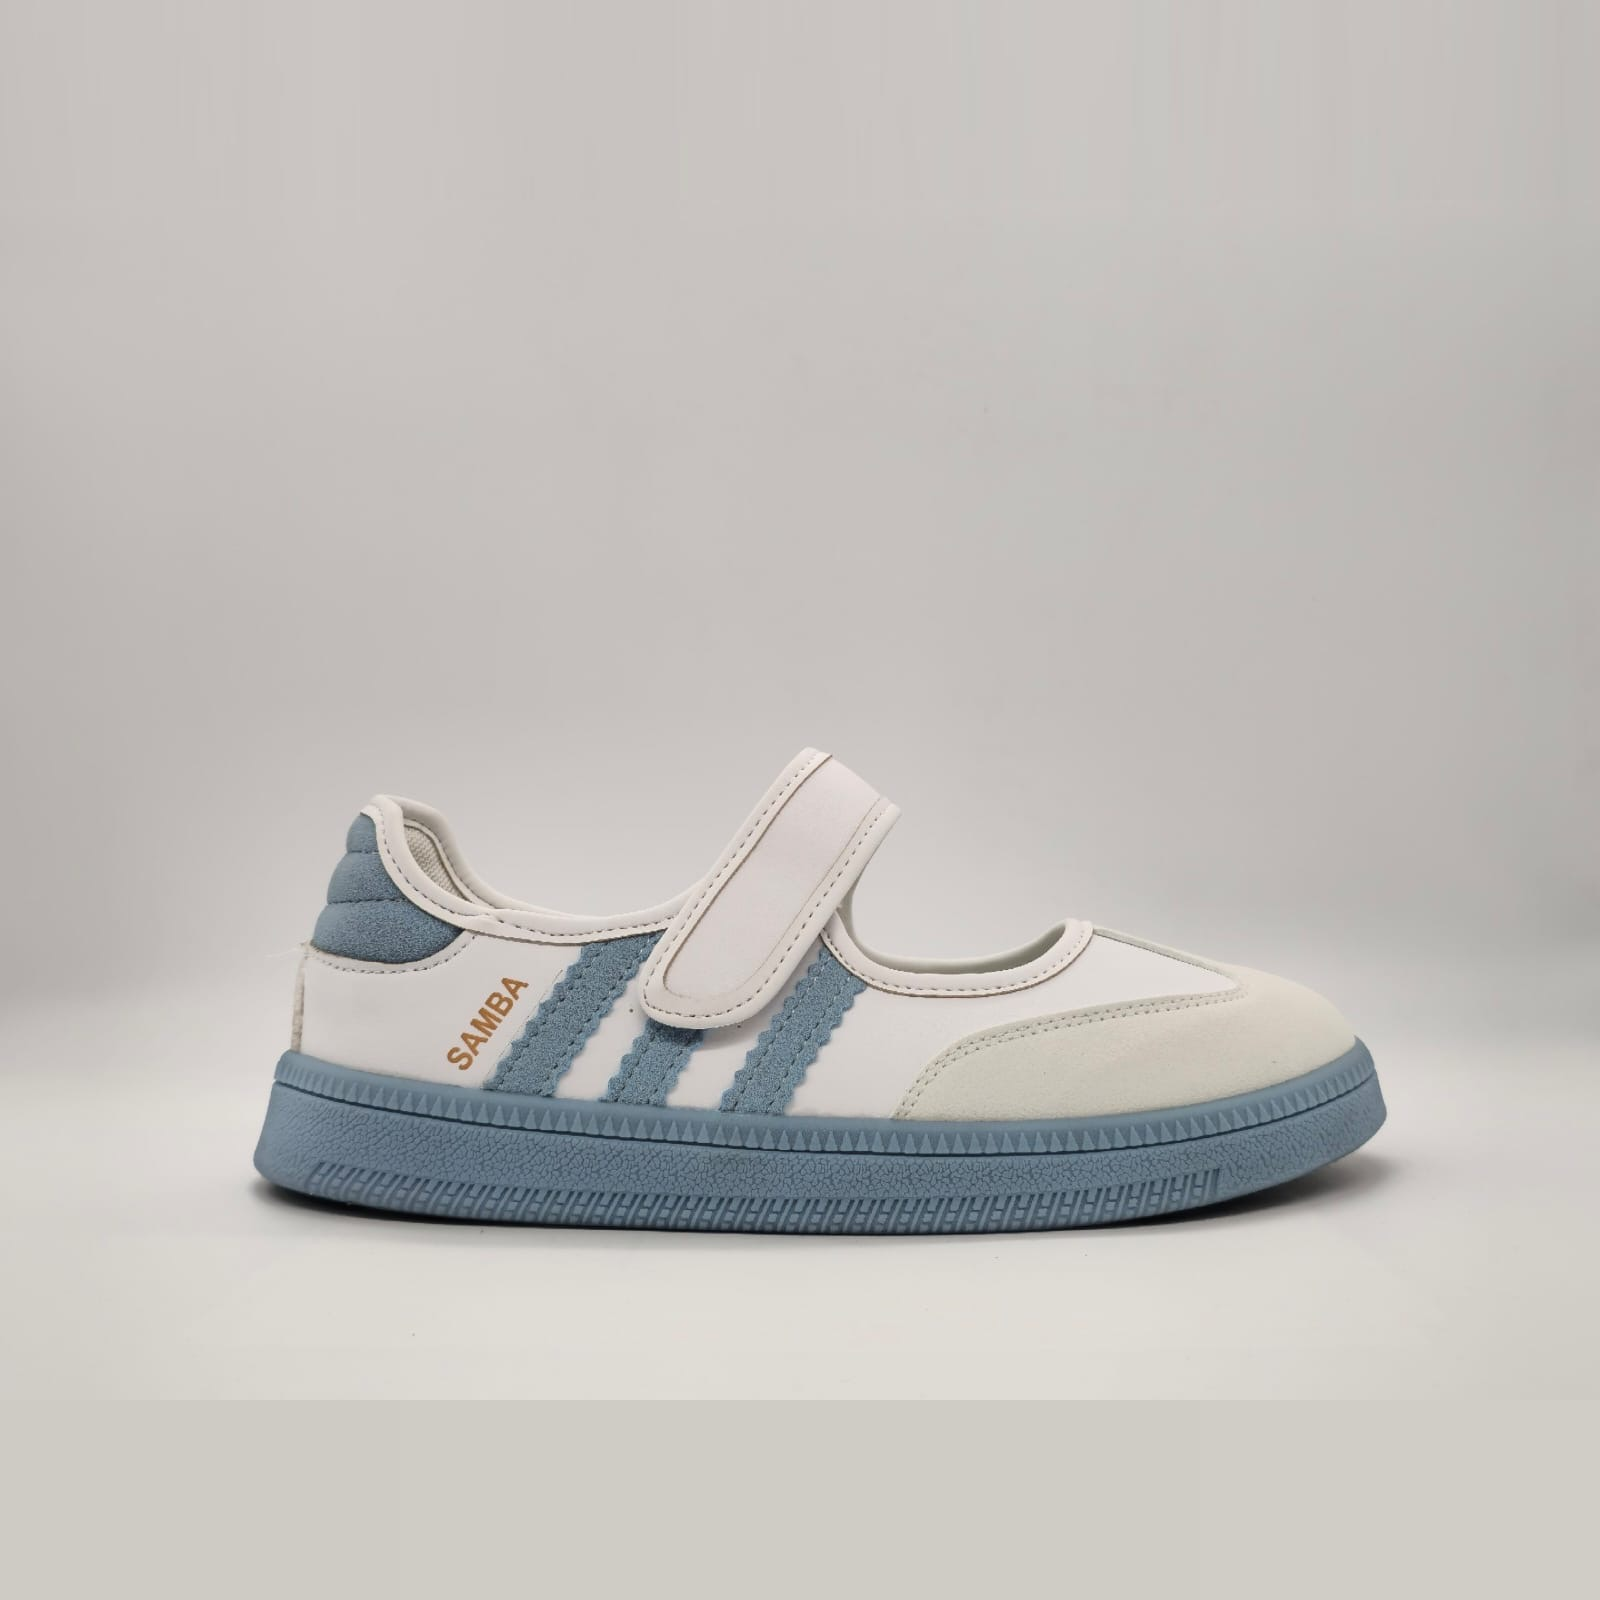
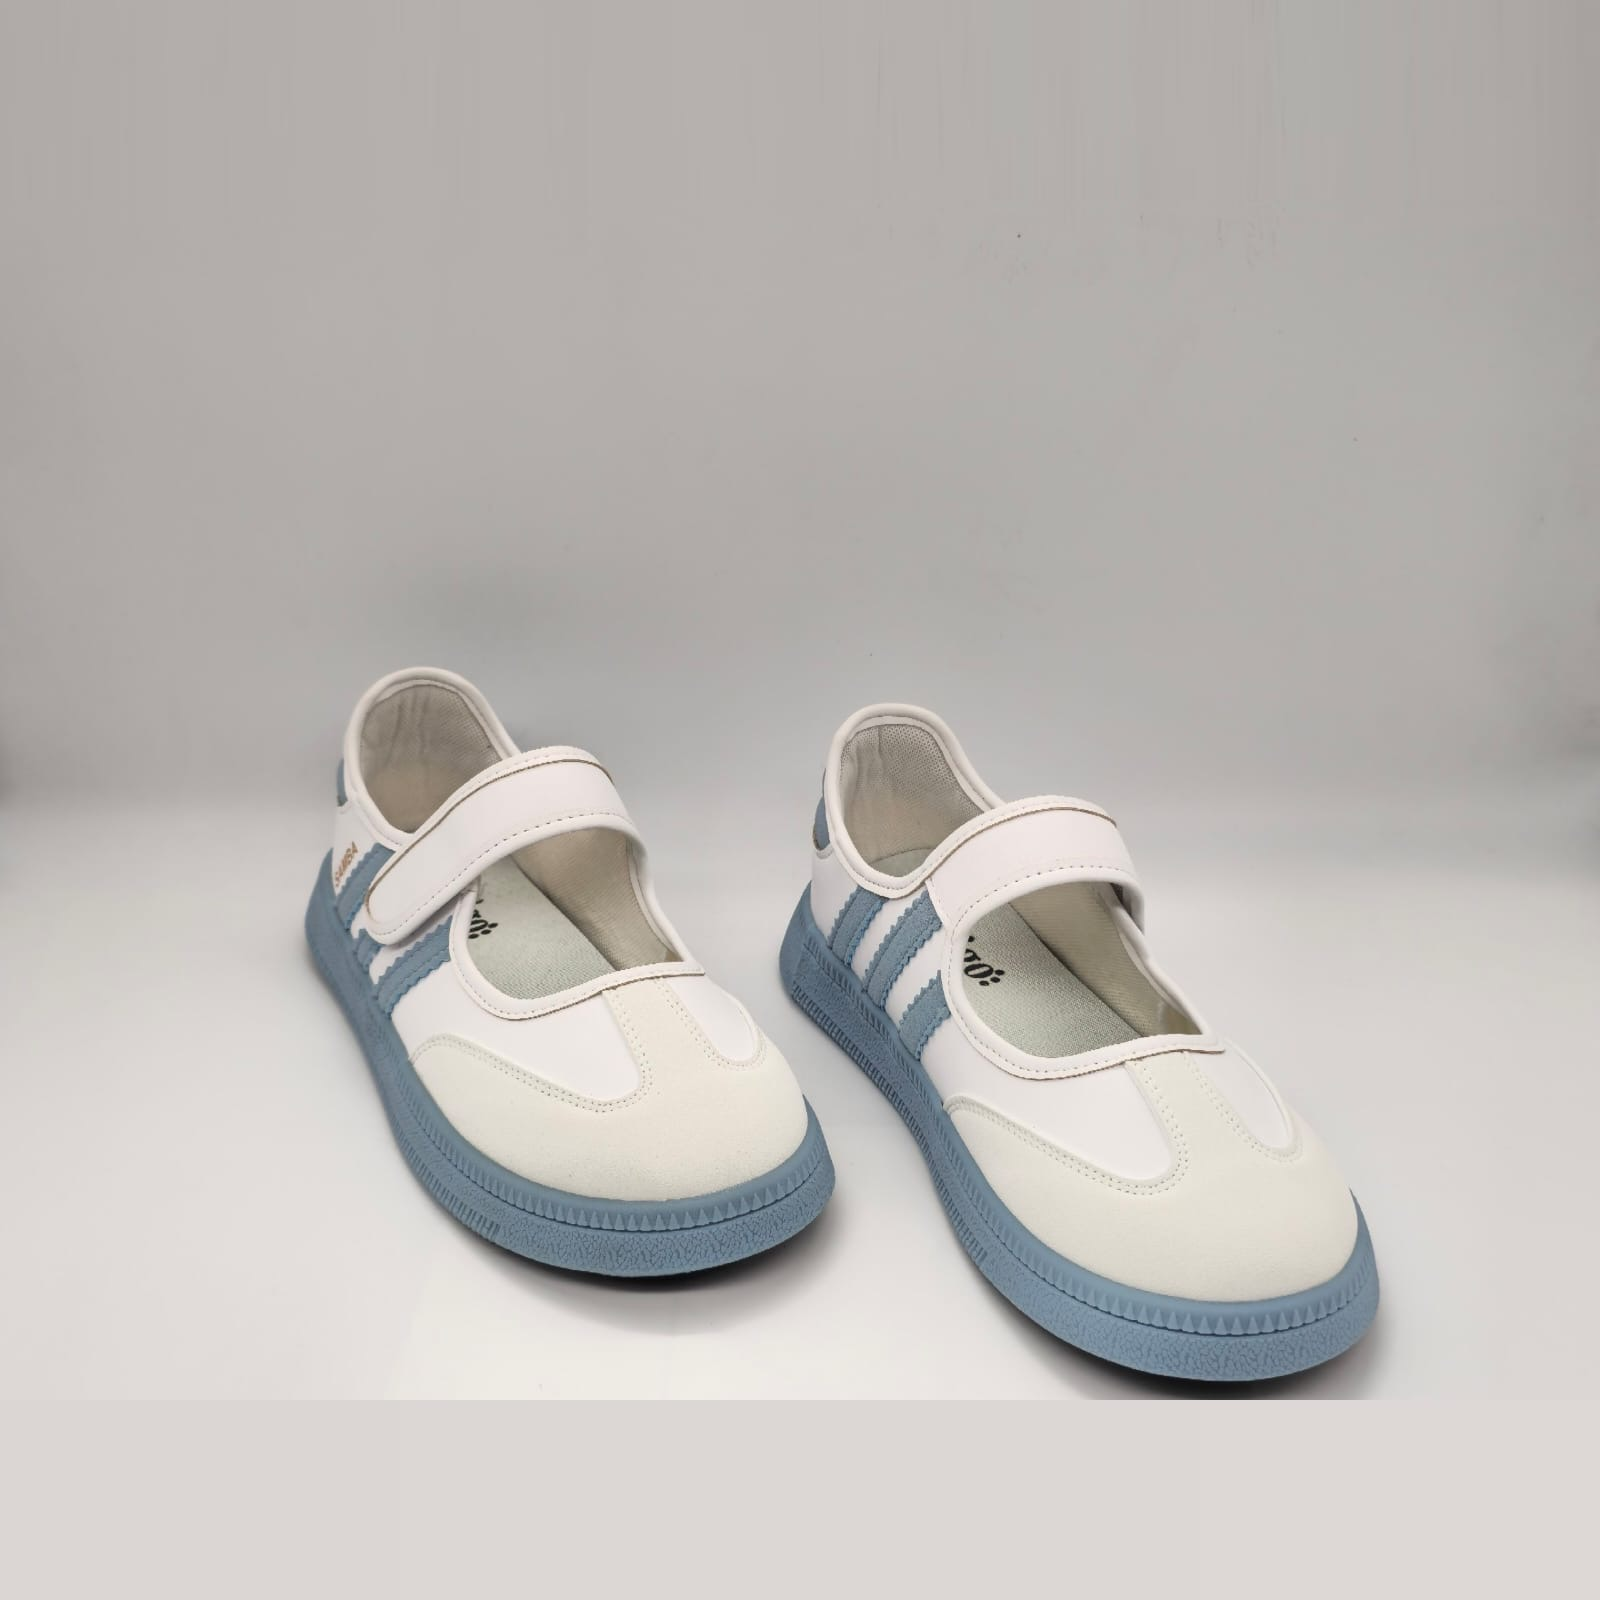
عکس اولِ هر سامبا: نمای نیمرخِ یک لنگه، نه عکس جفتی
«عکس اول در همه موردا باید این عکسی باشه که از این زاویس نه عکس دوتایی».

همان عکسی که فرستادید از قبل در دست قهوهای بود (MD5 یکی است)، پس فقط
ترتیب عوض شد نه فایل. نیمرخ اول در قهوهای، سرمهای و آبی روشن؛ بقیه به
همان ترتیبی که آمده بودند، و عکس از بالا آخر.

منطقش هم درست است: کارتها این عکس را در ۱۷۷ پیکسل میکشند، و یک لنگه از
نیمرخ در آن اندازه یک شکل خواناست، در حالی که جفتِ سهرخ دو کفشِ کوچک است و
یک فاصلهٔ وسطشان.

دستِ مشکی استثناست و این انتخاب من نیست: هر پنج عکسش از جفت است و نیمرخِ یک
لنگه ندارد، پس فعلاً مربعترین نمای سهرخش اول مانده تا عکسش برسد.

۸۵۶ تست سبز.

Claude-Session: https://claude.ai/code/session_01N2xd37bDXaSDNPkG9CXLbf

diff --git a/storefront/database/migrations/2026_09_02_060000_put_the_shops_own_samba_photographs_up.php b/storefront/database/migrations/2026_09_02_060000_put_the_shops_own_samba_photographs_up.php
@@ -23,9 +23,16 @@ use Illuminate\Database\Migrations\Migration;
  * brown reads r−b +15, «قهوه ای» +11 and «کرم قهوه ای» +8, so the warmer of
  * the two is the match.
  *
- * The order inside each set is deliberate: the upright three-quarter view of
- * the pair first, because that is the one every card shows at 177px, and the
- * top-down flat lay last.
+ * **The first photograph is the side profile of one shoe** — «عکس اول در همه
+ * موردا باید این عکسی باشه که از این زاویس نه عکس دوتایی». That is the one
+ * every card draws at 177px, and a single shoe from the side is the shape the
+ * eye reads at that size; a pair at three-quarters is two small shoes and a
+ * gap. The rest follow in the order they arrived, with the top-down flat lay
+ * last.
+ *
+ * **The black set is the exception and it is not a choice.** Its five
+ * photographs are all of the pair — there is no side profile among them — so
+ * its first is the squarest three-quarter view until one arrives.
  *
  * A migration and not a seeder — `catalogue:seed` runs only on an empty
  * catalogue and this shop has 148 products. And not the panel, only because
